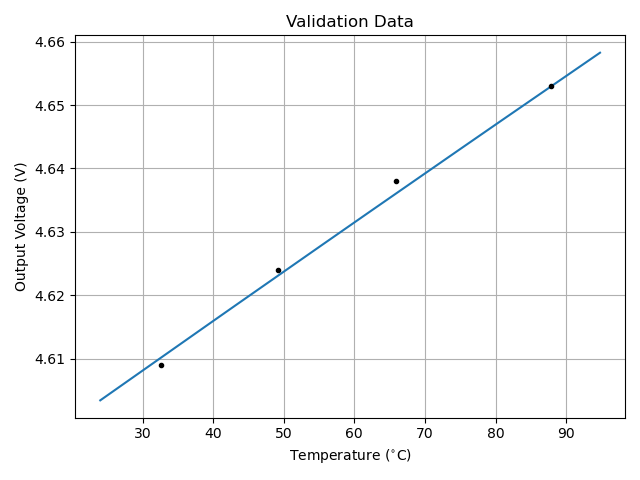
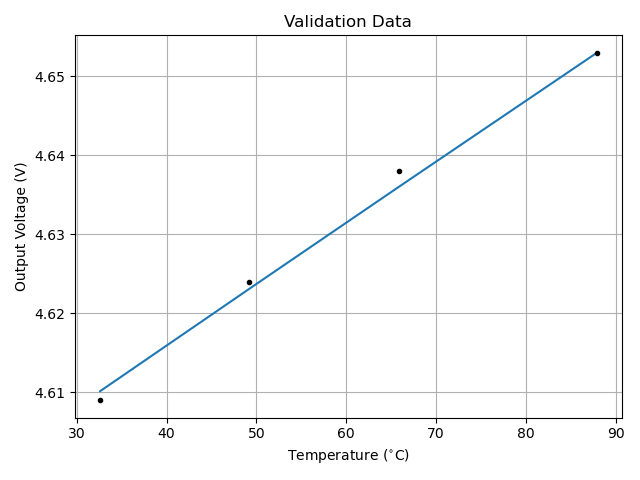
Add existing files

diff --git a/PT-100/codes/lsq.py b/PT-100/codes/lsq.py
@@ -29,10 +29,10 @@ plt.close('all')
 
 # Plot for validation
 B = np.loadtxt('../data/validation_data.txt')
-#Xv = np.hstack((np.ones((B.shape[0],1)),B[:,[0]],B[:,[0]]**2)).T
+Xv = np.hstack((np.ones((B.shape[0],1)),B[:,[0]],B[:,[0]]**2)).T
 Cv = B[:,[1]]
 Tv = B[:,[0]]
-plt.plot(T, X.T@n_lsq)
+plt.plot(Tv, Xv.T@n_lsq)
 plt.plot(Tv, Cv, 'k.')
 plt.title('Validation Data')
 plt.ylabel('Output Voltage (V)')
